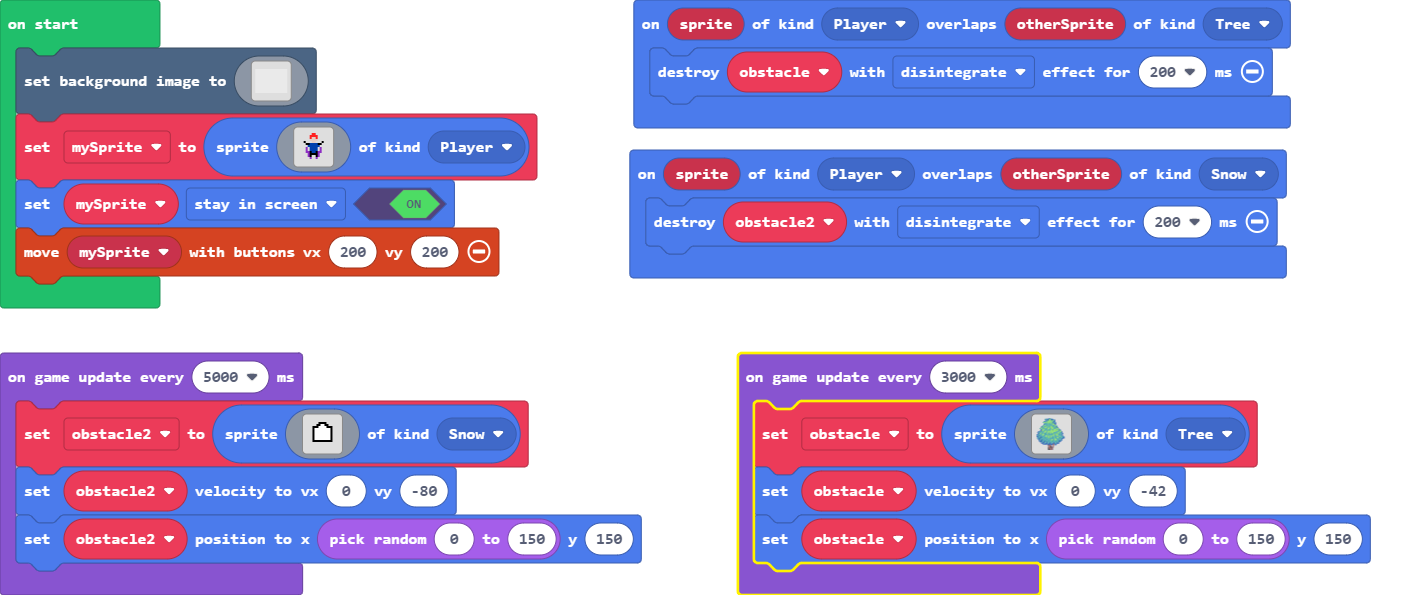
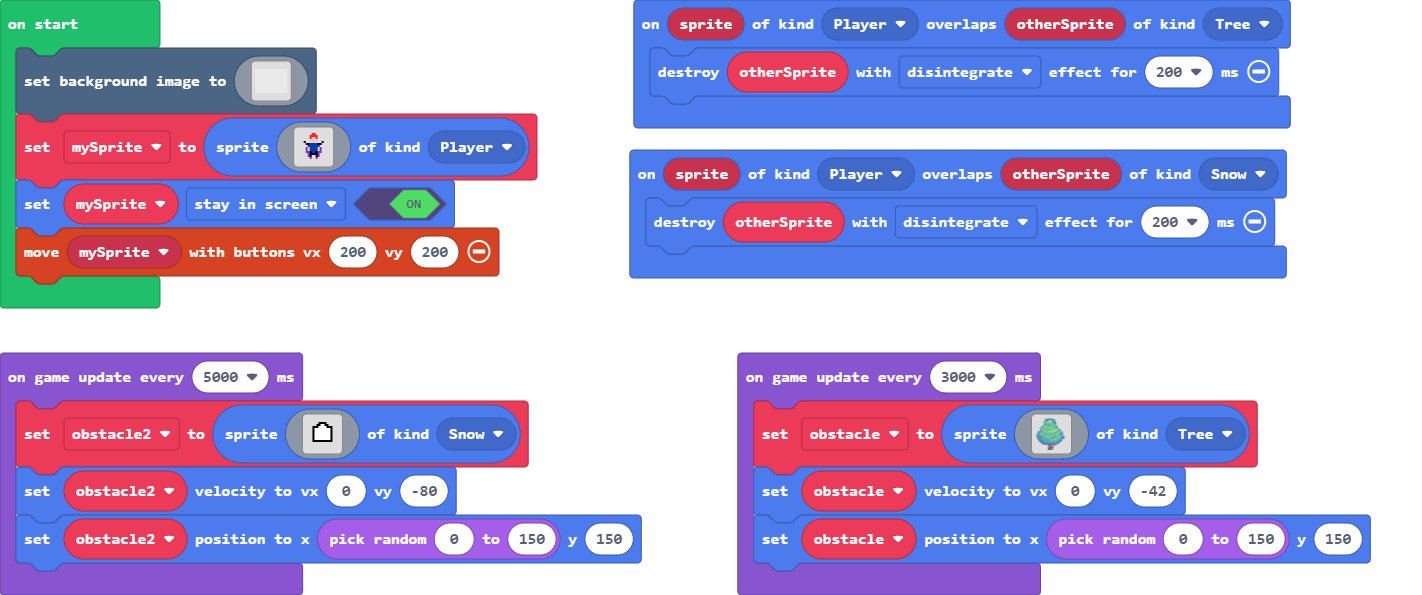
Update main.blocks, main.ts

diff --git a/main.ts b/main.ts
@@ -3,10 +3,10 @@ namespace SpriteKind {
     export const Tree = SpriteKind.create()
 }
 sprites.onOverlap(SpriteKind.Player, SpriteKind.Snow, function (sprite, otherSprite) {
-    obstacle2.destroy(effects.disintegrate, 200)
+    otherSprite.destroy(effects.disintegrate, 200)
 })
 sprites.onOverlap(SpriteKind.Player, SpriteKind.Tree, function (sprite, otherSprite) {
-    obstacle.destroy(effects.disintegrate, 200)
+    otherSprite.destroy(effects.disintegrate, 200)
 })
 let obstacle: Sprite = null
 let obstacle2: Sprite = null
